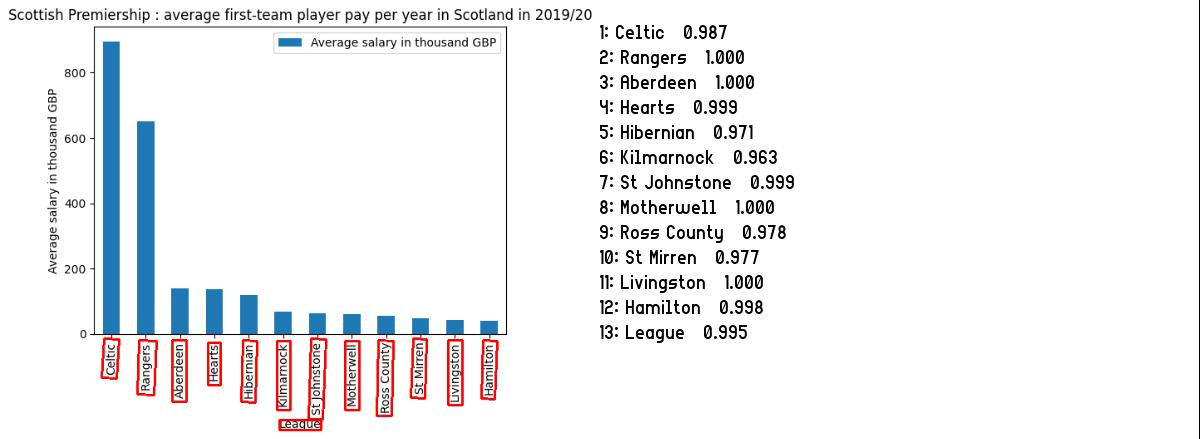
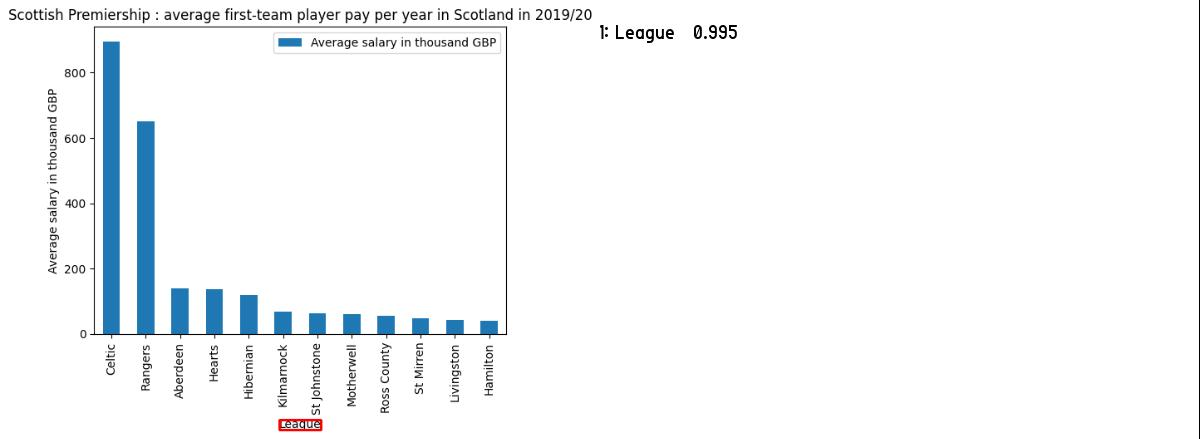
separate images

diff --git a/New folder (2)/ReadGraphOCR.py b/New folder (2)/ReadGraphOCR.py
@@ -8,7 +8,6 @@ from os import walk
 from PIL import Image
 
 def dataOCR(left_line, bottom_line):
-    print("OCR")
     x1, y1, x2, y2 = left_line
     x3, y3, x4, y4 = bottom_line
     # Paddleocr supports Chinese, English, French, German, Korean and Japanese.
@@ -29,7 +28,10 @@ def dataOCR(left_line, bottom_line):
     bottom_boxes = []
     bottom_txts = []
     bottom_scores = []
-    print("OCRasdasd")
+
+    title_boxes = []
+    title_txts = []
+    title_scores = []
     for idx in range(len(result)):
         res = result[idx]
         for line in res:
@@ -38,15 +40,14 @@ def dataOCR(left_line, bottom_line):
                 left_boxes.append(box)
                 left_txts.append(line[1][0])
                 left_scores.append(line[1][1])
-            if box[1][1] > y4:
+            elif box[1][1] > y4:
                 bottom_boxes.append(box)
                 bottom_txts.append(line[1][0])
                 bottom_scores.append(line[1][1])
-            if box[0][1] > 0:
-                #min_y = box[0][1]
-                top_boxes.append(box)
-                top_txts.append(line[1][0])
-                top_scores.append(line[1][1])
+            else:
+                title_boxes.append(box)
+                title_txts.append(line[1][0])
+                title_scores.append(line[1][1])
                 
     # draw result for left line
     
@@ -61,7 +62,7 @@ def dataOCR(left_line, bottom_line):
     im_show.save('resultbottom.jpg')
     # draw result for top
     image = Image.open(img_path).convert('RGB')
-    im_show = draw_ocr(image, top_boxes, top_txts, top_scores, font_path='arial_narrow_7.ttf')
+    im_show = draw_ocr(image, title_boxes, title_txts, title_scores, font_path='arial_narrow_7.ttf')
     im_show = Image.fromarray(im_show)
     im_show.save('resulttop.jpg')
 
@@ -69,9 +70,8 @@ def dataOCR(left_line, bottom_line):
 
 
 
-def axisLines():
-    img = cv2.imread("C:/Users/Lakshan/OneDrive/Documents/GitHub/Chart-Reader/Images/Vertical_Bar_Chart/VerticalBar18.jpg")
-  
+def axisLines(file_Name, i):
+    img = cv2.imread(file_Name)  
     # Convert the img to grayscale
     gray = cv2.cvtColor(img, cv2.COLOR_BGR2GRAY)
   
@@ -109,36 +109,31 @@ def axisLines():
     #calculating the slope of the lines
     slope1 = (bottom_line[3]-bottom_line[1])/(bottom_line[2]-bottom_line[0])
     slope2 = (left_line[3]-left_line[1])/(left_line[2]-left_line[0]) if (left_line[2]-left_line[0])!=0 else 0.00001
-
+    
     #if slope of the lines is close to infinity or close to 0, that means the lines are almost vertical or horizontal
-    if abs(slope1) < 0.1 or abs(slope1) > 10:
+    if abs(slope1) < 0.1  or abs(slope1) > 10:
+        #width = img.shape[1]
+    
+        #bottom_line = (0, bottom_line[1], width, bottom_line[3])
         cv2.line(img, (bottom_line[0], bottom_line[1]), (bottom_line[2], bottom_line[3]), (0, 0, 255), 2)
     if abs(slope2) < 0.1 or abs(slope2) > 10:
         cv2.line(img, (left_line[0], left_line[1]), (left_line[2], left_line[3]), (0, 0, 255), 2)
-    cv2.imwrite("result.png", img)
-    dataOCR(left_line, bottom_line)
+    cv2.imwrite("axis/"+i+"result.png", img)
+    print(i)
+    
+    #dataOCR(left_line, bottom_line)
     
     #INCREASE ACCURACY OF THE AXIS DETECTION
     #Get the lines which are above the text and on the right so if there is a border there wouldn't be an issue
     #Get the lines if the line postion is after more than 50% of the image
 
 
-
-    
-    
-    # Draw the left and bottom lines on the image
-    #cv2.line(img, (left_line[0], left_line[1]), (left_line[2], left_line[3]), (0, 0, 255), 2)
-    #cv2.line(img, (bottom_line[0], bottom_line[1]), (bottom_line[2], bottom_line[3]), (0, 0, 255), 2)
-    # All the changes made in the input image are finally
-    # written on a new image houghlines.jpg
-    #cv2.imwrite("axis/"+i+"result.png", img)
-    print(" done")
-    
+   
 
 def fileNames():
     folder = "C:/Users/Lakshan/OneDrive/Documents/GitHub/Chart-Reader/Images/Vertical_Bar_Chart"
     filenames = next(walk(folder), (None, None, []))[2]  # [] if no file
     for i in filenames:
         axisLines(f"{folder}/{i}", i)
-
-axisLines()
+fileNames()
+#axisLines()
